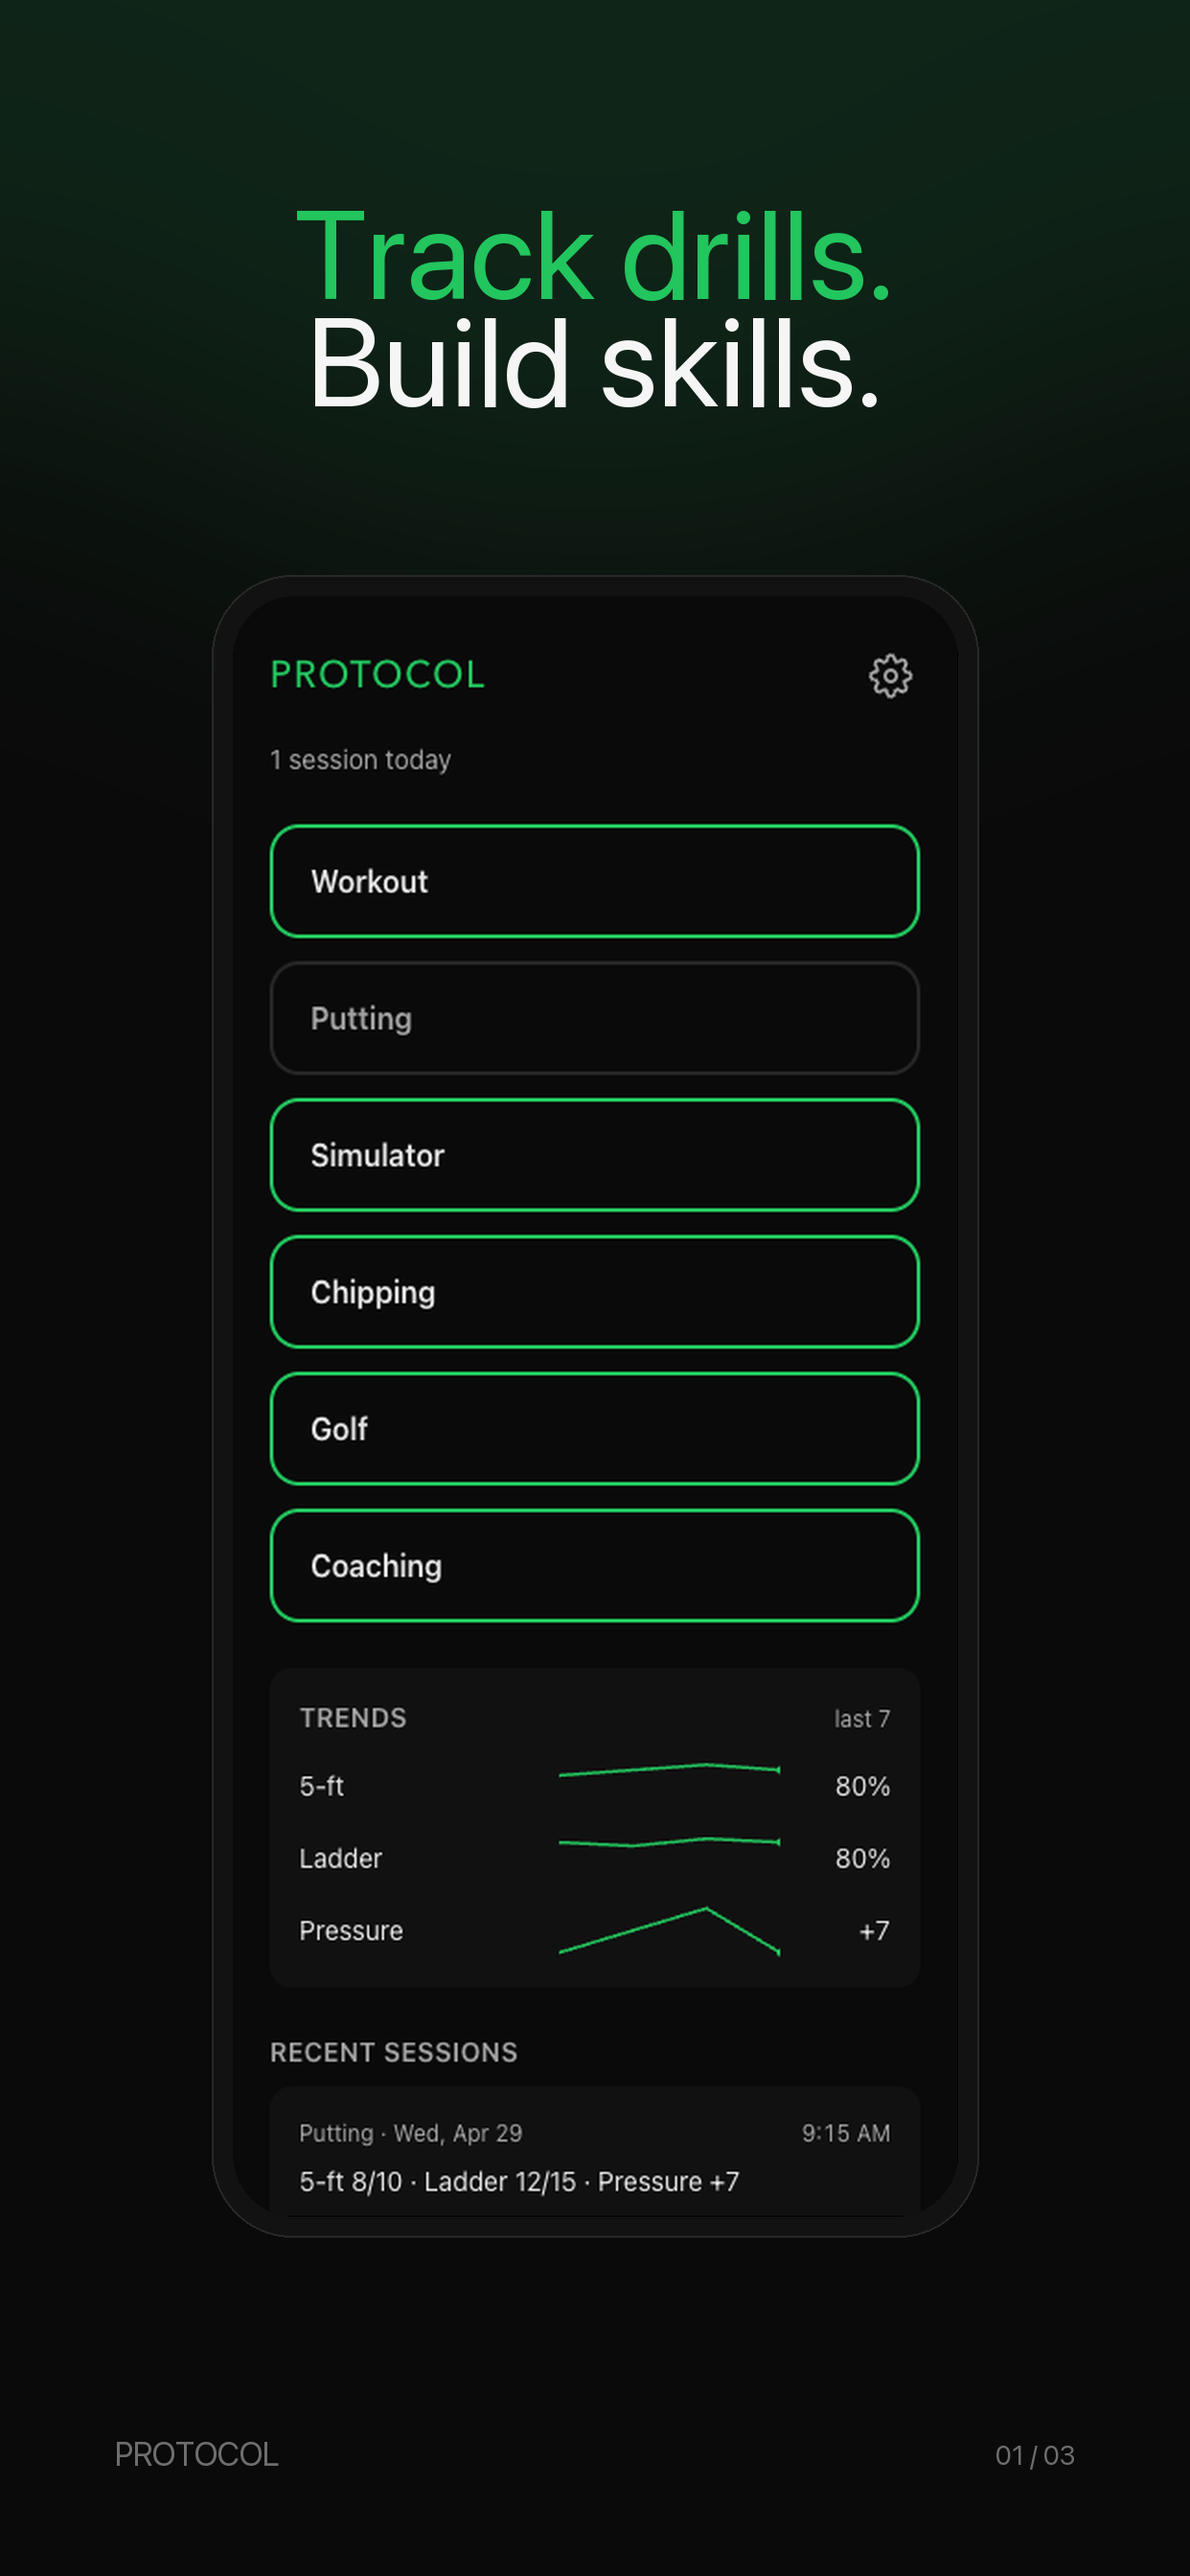
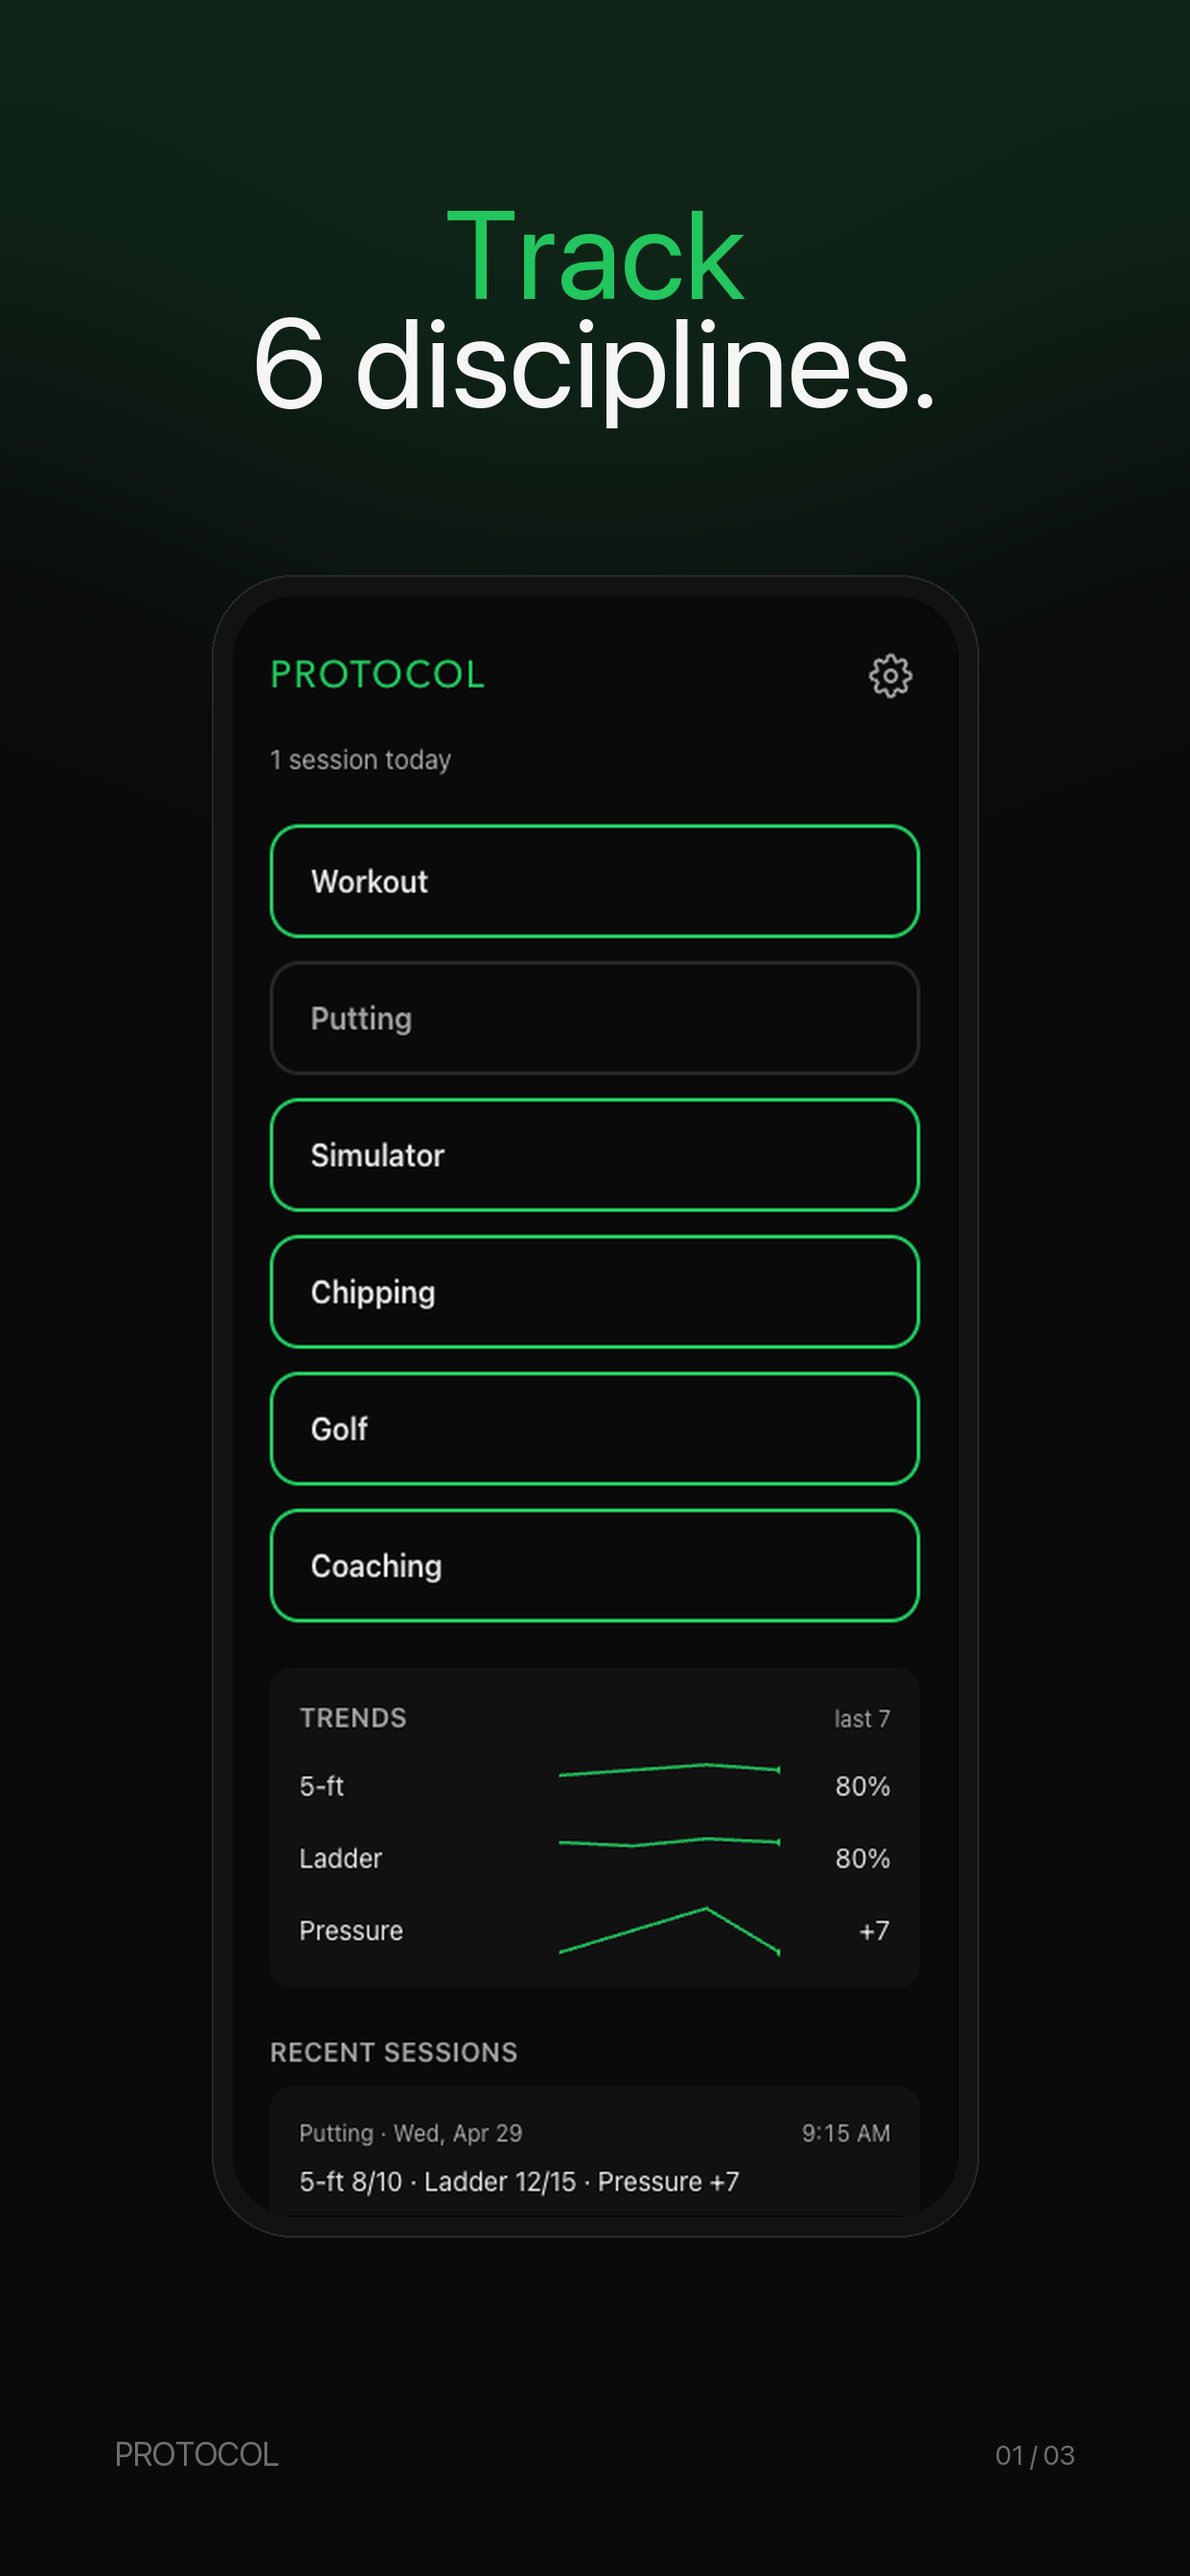
docs: per-screen taglines on featured screenshots
Each composite gets its own caption (Track 6 disciplines / Fast, easy
data entry / Review and share progress) so the trio reads as a featured
image set rather than three repeats of the same hero. Moves the
"Track drills, build skills" tagline out of the per-screen art and
into the README header.

Changed region(s): [[0.2142, 0.0625, 0.7649, 0.1875]]

diff --git a/docs/screenshots/compose.py b/docs/screenshots/compose.py
@@ -60,22 +60,17 @@ def make_background():
     return bg
 
 
-def draw_tagline(canvas):
-    """'Track drills.' (accent) + 'Build skills.' (white) — two lines,
-    centered, restrained scale. Lives in the upper third above the phone."""
+def draw_tagline(canvas, line1, line2):
+    """Two-line tagline: line1 in accent, line2 in white. Centered,
+    restrained scale. Lives in the upper third above the phone."""
     draw = ImageDraw.Draw(canvas)
     font = load_font(132)
 
-    line1 = "Track drills."
-    line2 = "Build skills."
-
-    # Anchor each line by its bbox center
     bbox1 = draw.textbbox((0, 0), line1, font=font)
     bbox2 = draw.textbbox((0, 0), line2, font=font)
     w1, h1 = bbox1[2] - bbox1[0], bbox1[3] - bbox1[1]
     w2, h2 = bbox2[2] - bbox2[0], bbox2[3] - bbox2[1]
     line_gap = 18
-    total_h = h1 + h2 + line_gap
     top_y = 220
 
     draw.text(((W - w1) // 2 - bbox1[0], top_y - bbox1[1]),
@@ -143,9 +138,9 @@ def place_phone(canvas, screenshot_path):
     canvas.paste(raw, (sx, sy), mask)
 
 
-def compose(raw_path, out_path, index, total):
+def compose(raw_path, out_path, index, total, tagline):
     bg = make_background().convert("RGBA")
-    draw_tagline(bg)
+    draw_tagline(bg, tagline[0], tagline[1])
     place_phone(bg, raw_path)
     draw_footer(bg, index, total)
     bg.convert("RGB").save(out_path, "PNG", optimize=True)
@@ -156,12 +151,12 @@ def main():
     here = Path(__file__).parent
     raw = here / "raw"
     shots = [
-        ("01-home-top.png", "01-pick.png"),
-        ("02-review.png",   "02-review.png"),
-        ("03-progress.png", "03-build.png"),
+        ("01-home-top.png", "01-pick.png",   ("Track",      "6 disciplines.")),
+        ("02-review.png",   "02-review.png", ("Fast, easy", "data entry.")),
+        ("03-progress.png", "03-build.png",  ("Review and", "share progress.")),
     ]
-    for i, (src, dst) in enumerate(shots, 1):
-        compose(raw / src, here / dst, i, len(shots))
+    for i, (src, dst, tagline) in enumerate(shots, 1):
+        compose(raw / src, here / dst, i, len(shots), tagline)
 
 
 if __name__ == "__main__":

diff --git a/README.md b/README.md
@@ -2,6 +2,8 @@
 
 A golf practice tracker.
 
+_Track drills, build skills._
+
 <p align="center">
   <img src="./docs/screenshots/01-pick.png" alt="PROTOCOL home — discipline picker, trends, recent sessions" width="32%" />
   <img src="./docs/screenshots/02-review.png" alt="PROTOCOL session — face control, distance, pressure metrics" width="32%" />
